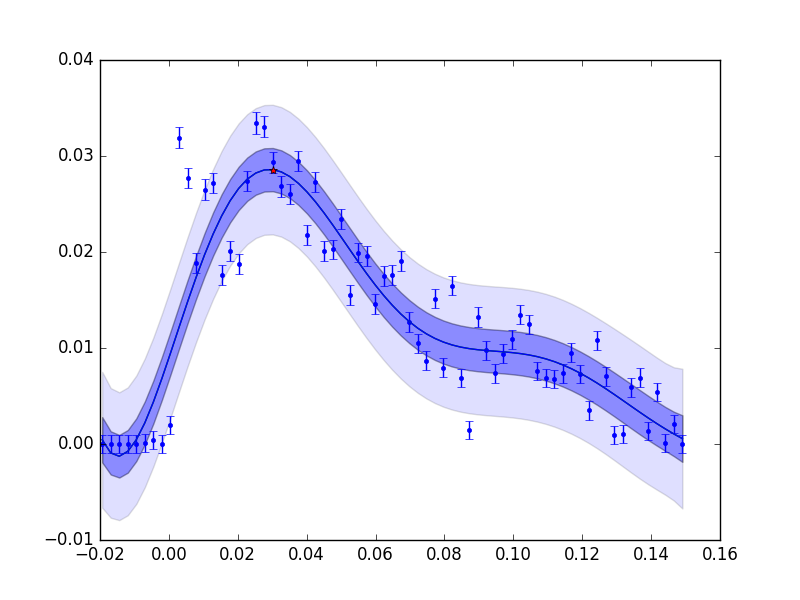
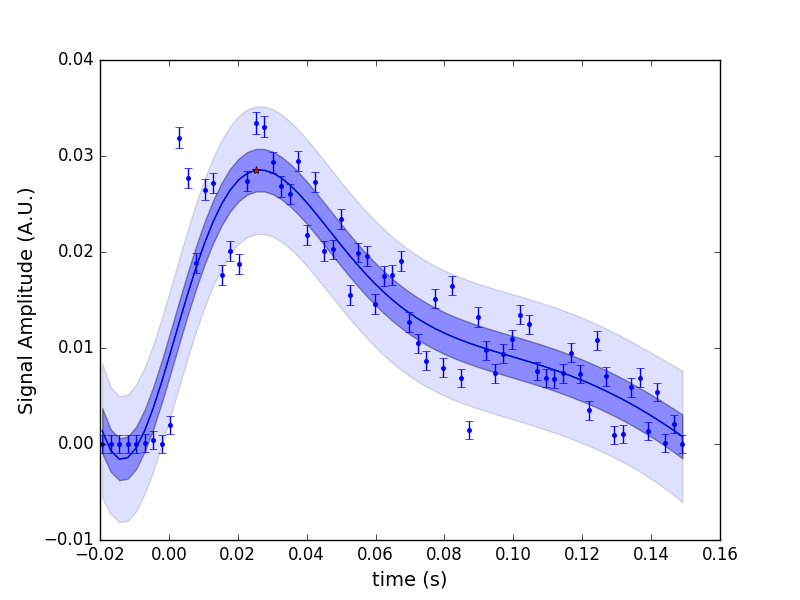
latest update

diff --git a/profile_unc_estimation.py b/profile_unc_estimation.py
@@ -36,7 +36,14 @@ from VUV_gui_classes import VUVData,interp_max
 import cPickle as pkl
 import warnings
 
-def profile_fitting(x, y, err_y=None, optimize=True, method='GPR', kernel='SE', num_dim=1, sigma_max=10.0, l_min = 0.005, debug_plots=False, noiseLevel=2):
+class hyperparams:
+    def __init__(self,**kwargs):
+        for key, value in kwargs.iteritems():
+            setattr(self, key, value)
+            print "Set hparams.%s = %d" %(key, value) 
+
+
+def profile_fitting(x, y, err_y=None, optimize=True, method='GPR', kernel='SE', num_dim=1, debug_plots=True, noiseLevel=2., **kwargs): #sigma_max=10.0, l_min = 0.005, 
     """Interpolate profiles and uncertainties over a dense grid. Also return the maximum 
     value of the smoothed data.
     
@@ -94,35 +101,57 @@ def profile_fitting(x, y, err_y=None, optimize=True, method='GPR', kernel='SE', 
 
         # Define the kernel type amongst the implemented options. 
         if kernel=='SE':
+            assert len(kwargs) == 4
+            hparams = hyperparams(**kwargs); #hparams.set_kwargs(**kwargs)
+            # Defaults:
+            if not hasattr(hparams,'sigma_mean'): hparams.sigma_mean = 2.0
+            if not hasattr(hparams,'l_mean'): hparams.l_mean = 0.005
+            if not hasattr(hparams,'sigma_sd'): hparams.sigma_sd = 10.0
+            if not hasattr(hparams,'l_sd'): hparams.l_sd = 0.1
+
             hprior = (
-            # gptools.UniformJointPrior([(0, sigma_max),]) *
-            gptools.GammaJointPriorAlt([2.0,], [sigma_max,])*
-            gptools.GammaJointPriorAlt([l_min,], [0.1,])
+            gptools.GammaJointPriorAlt([hparams.sigma_mean, hparams.l_mean], [hparams.sigma_sd,hparams.l_sd])
             )
             k = gptools.SquaredExponentialKernel(
                 #= ====== =======================================================================
-                #0 sigmaf Amplitude of the covariance function
+                #0 sigma  Amplitude of the covariance function
                 #1 l1     Small-X saturation value of the length scale.
                 #2 l2     Large-X saturation value of the length scale.
                 #= ====== =======================================================================
                 # param_bounds=[(0, sigma_max), (0, 2.0)],
                 hyperprior=hprior,
-                initial_params=[10000.0, 400000.0],
+                initial_params=[10000.0, 400000.0], # random, doesn't matter because we do random starts anyway
                 fixed_params=[False]*2
             )
             
         elif kernel=='gibbs':
-            # Set this with 
+            if num_dim == 1: assert len(kwargs) == 10
+            hparams = hyperparams(**kwargs); 
+            # Defaults:
+            if not hasattr(hparams,'sigma_min'): hparams.sigma_min = 0.0
+            if not hasattr(hparams,'sigma_max'): hparams.sigma_max = 10.0
+
+            if not hasattr(hparams,'l1_mean'): hparams.l1_mean = 0.3
+            if not hasattr(hparams,'l1_sd'): hparams.l1_sd = 0.3
+
+            if not hasattr(hparams,'l2_mean'): hparams.l2_mean = 0.5
+            if not hasattr(hparams,'l2_sd'): hparams.l2_sd = 0.25
+            
+            if not hasattr(hparams,'lw_mean'): hparams.lw_mean = 0.0
+            if not hasattr(hparams,'lw_sd'): hparams.lw_sd = 0.3
+            
+            if not hasattr(hparams,'x0_mean'): hparams.x0_mean = 0.0
+            if not hasattr(hparams,'x0_sd'): hparams.x0_sd = 0.3
+
             hprior=(
-                # Set a uniform prior for sigmaf
-                gptools.UniformJointPrior([(0,10),])*
-                # Set Gamma distribution('alternative form') for the other 4 priors of the Gibbs 1D Tanh kernel
-                gptools.GammaJointPriorAlt([0.3,0.5,0.0,0.0],[0.3,0.25,0.3,0.3])
+                gptools.UniformJointPrior([(hparams.sigma_min,hparams.sigma_max),])*
+                gptools.GammaJointPriorAlt([hparams.l1_mean,hparams.l2_mean,hparams.lw_mean,hparams.x0_mean],
+                    [hparams.l1_sd,hparams.l2_sd,hparams.lw_sd,hparams.x0_sd])
                 )
 
             k = gptools.GibbsKernel1dTanh(
                 #= ====== =======================================================================
-                #0 sigmaf Amplitude of the covariance function
+                #0 sigma  Amplitude of the covariance function
                 #1 l1     Small-X saturation value of the length scale.
                 #2 l2     Large-X saturation value of the length scale.
                 #3 lw     Length scale of the transition between the two length scales.
@@ -133,6 +162,14 @@ def profile_fitting(x, y, err_y=None, optimize=True, method='GPR', kernel='SE', 
                 hyperprior=hprior,
                 )
         elif kernel=='matern52':
+            if num_dim == 1: assert len(kwargs) == 4
+            hparams = hyperparams(**kwargs); 
+            # Defaults:
+            if not hasattr(hparams,'sigma_mean'): hparams.sigma_mean = 2.0
+            if not hasattr(hparams,'l_mean'): hparams.l_mean = 0.005
+            if not hasattr(hparams,'sigma_sd'): hparams.sigma_sd = 10.0
+            if not hasattr(hparams,'l_sd'): hparams.l_sd = 0.1
+
             hprior=( 
                 gptools.GammaJointPriorAlt([2.0,0.05],[5.0,0.25])
                 ) 
@@ -180,12 +217,13 @@ def profile_fitting(x, y, err_y=None, optimize=True, method='GPR', kernel='SE', 
             if y[i]==0:
                 gp.add_data(x[i], 0, n=0, err_y=0.0)
                 gp.add_data(x[i], 0, n=0, err_y=0.0)
+                gp.add_data(x[i], 0, n=1, err_y=0.0)
         
         with warnings.catch_warnings():
             warnings.filterwarnings("ignore", message="invalid value encountered in subtract")
             if optimize: 
-                gp.optimize_hyperparameters(verbose=True, random_starts=200)
-            else:
+                res_min, ll_trials = gp.optimize_hyperparameters(verbose=True, random_starts=200)
+            else: 
                 print 'Optimization is turned off. Using initial guesses for hyperparameters!'
 
         m_gp, s_gp = gp.predict(grid,noise=True)
@@ -214,9 +252,24 @@ def profile_fitting(x, y, err_y=None, optimize=True, method='GPR', kernel='SE', 
         print 'Fraction of points within 2 sd: {}'.format(frac_within_2sd)
         print 'Fraction of points within 3 sd: {}'.format(frac_within_3sd)
 
+        ###
+        print("Estimating AIC, BIC...")
+        sum2_diff = 0 
+        for i in range(len(y)):
+            # Find value of grid that is the closest to x[i]:
+            gidx = np.argmin(abs(grid - x[i]))
+            sum2_diff = (m_gp[gidx]-y[i])**2
+                
+        chi_squared = float(sum2_diff) / len(y)
+        num_params = len(hparams.__dict__) / 2
+        num_data = len(y)
+
+        AIC = chi_squared + 2.0 * num_params 
+        BIC = chi_squared + num_params * scipy.log(num_data)
+
     elif method == 'spline':
         m_gp = scipy.interpolate.UnivariateSpline(
-            x, y, w=1.0 / err_y, s=2*len(x)
+            x, y, w=1.0 / err_y, s=None #2*len(x)
         )(grid)
         if scipy.isnan(m_gp).any():
             print(x)
@@ -235,7 +288,8 @@ def profile_fitting(x, y, err_y=None, optimize=True, method='GPR', kernel='SE', 
             gptools.univariate_envelope_plot(grid, m_gp, s_gp, ax=a,label='Inferred')
             #a.fill_between(grid, m_gp - s_gp, m_gp + s_gp, color='g', alpha=0.5)
         plt.plot(grid[m_gp.argmax()],m_gp.max(),'r*')
-        #a.axvline(grid[i])
+        plt.xlabel('time (s)', fontsize=14)
+        plt.xlabel('Signal Amplitude (A.U.)', fontsize=14)
 
     if method == 'GPR':
         res.m_gp=m_gp
@@ -243,6 +297,10 @@ def profile_fitting(x, y, err_y=None, optimize=True, method='GPR', kernel='SE', 
         res.frac_within_1sd=frac_within_1sd
         res.frac_within_2sd=frac_within_2sd
         res.frac_within_3sd=frac_within_3sd
+        res.ll = res_min.fun 
+        res.ll_trials = ll_trials
+        res.BIC = BIC
+        res.AIC = AIC
 
         # res = results(m_gp=m_gp, s_gp=s_gp, frac_within_1sd=frac_within_1sd, frac_within_2sd=frac_within_2sd, frac_within_3sd=frac_within_3sd)
         # return (m_gp, s_gp, frac_within_1sd, frac_within_2sd, frac_within_3sd)

diff --git a/xeus_sig_cleanup.py b/xeus_sig_cleanup.py
@@ -1,7 +1,7 @@
 from __future__ import division
 import sys
 sys.path.append('/home/sciortino/ML')
-import profile_unc_estimation
+import profile_unc_estimation as  prof_fit
 import numpy as np
 import collections
 import profiletools
@@ -87,20 +87,28 @@ if report_figs:
     plt.figure()
     plt.errorbar(t_train,y_clean_train,y_unc_train,marker='s',mfc='red',mec='green')
 
-    res = profile_fitting(t_train, y_clean_train, err_y=y_unc_train, s_guess=0.2, s_max=10.0, l_guess=0.05, 
-        fixed_l=False, debug_plots=True, method='spline',kernel='SE',noiseLevel=1)
+    res = prof_fit.profile_fitting(t_train, y_clean_train, err_y=y_unc_train, optimize=True, sigma_max=10.0, 
+        debug_plots=True, method='spline',kernel='SE',noiseLevel=1)
 
-    res = profile_fitting(t_train, y_clean_train, err_y=y_unc_train, s_guess=0.1, s_max=10.0, l_guess=0.05, 
-        fixed_l=False, debug_plots=True, method='GPR',kernel='SE',noiseLevel=2)
-    
+    # SE kernel test:
+    SE_params={'sigma_mean': 2.0, 'l_mean': 0.1, 'sigma_sd': 10.0, 'l_sd':0.1}
+    res = prof_fit.profile_fitting(t_train, y_clean_train, err_y=y_unc_train, method='GPR',kernel='SE',noiseLevel=2, **SE_params)
+    logposterior_SE = 
+
+
     # Try gibbs kernel:
-    res = profile_fitting(t_train, y_clean_train, err_y=y_unc_train, debug_plots=True, method='GPR',kernel='gibbs',noiseLevel=2)
+    gibbs_params={'sigma_min':0.0,'sigma_max':2.0,'l1_mean':0.005,'l2_mean':0.1,'lw_mean':0.01,'x0_mean':0.0,
+                    'l1_sd':0.05,'l2_sd':0.05,'lw_sd':0.02,'x0_sd':0.002}
+    res = prof_fit.profile_fitting(t_train, y_clean_train, err_y=y_unc_train, method='GPR',kernel='gibbs',noiseLevel=2, **gibbs_params)
     
     # Try matern52 kernel:
-    res = profile_fitting(t_train, y_clean_train, err_y=y_unc_train, debug_plots=True, method='GPR',kernel='matern52',noiseLevel=2)
+    matern52_params={'sigma_mean': 2.0, 'l_mean': 0.05, 'sigma_sd': 10.0, 'l_sd':10.0}
+    res = prof_fit.profile_fitting(t_train, y_clean_train, err_y=y_unc_train, method='GPR',kernel='matern52',noiseLevel=2, **matern52_params)
     
     # Try RQ kernel:
-    res = profile_fitting(t_train, y_clean_train, err_y=y_unc_train, debug_plots=True, method='GPR',kernel='RQ',noiseLevel=2)
+    RQ_params={'sigma_mean': 2.0, 'l_mean': 0.005, 'sigma_sd': 10.0, 'l_sd':0.1}
+    res = prof_fit.profile_fitting(t_train, y_clean_train, err_y=y_unc_train, method='GPR',kernel='RQ',noiseLevel=2, **RQ_params)
+
 
 #==================================================================
 #
@@ -115,8 +123,8 @@ nL = np.linspace(1.0, 3.0, 3)
 hyperparams = np.zeros((len(nL),3))
 for j in range(len(nL)):
     noiseLevel = nL[j]
-    res_train = profile_fitting(t_train, y_clean_train, err_y=y_unc_train, optimize=True, s_guess=0.1, s_max=10.0, l_guess=0.05, 
-        fixed_l=False, debug_plots=True, method='GPR',kernel='SE', noiseLevel=noiseLevel)
+    res_train = prof_fit.profile_fitting(t_train, y_clean_train, err_y=y_unc_train, optimize=True, sigma_max=10.0, 
+        method='GPR',kernel='SE', noiseLevel=noiseLevel)
 
     hyperparams[j,:] = res_train.free_params[:]
     sigma_f_opt = res_train.free_params[:][0]
@@ -125,8 +133,8 @@ for j in range(len(nL)):
     noiseLevel_opt = sigma_n_opt / np.mean(y_unc_train)
 
     # Find validation set error
-    res_val = profile_fitting(t_train, y_clean_train, err_y=y_unc_train, optimize=False, s_guess=sigma_f_opt, s_max=10.0, l_guess=l_1_opt, 
-        fixed_l=True, debug_plots=True, method='GPR', kernel='SE', noiseLevel=noiseLevel_opt)
+    res_val = prof_fit.profile_fitting(t_train, y_clean_train, err_y=y_unc_train, optimize=False, sigma_max=10.0, 
+        method='GPR', kernel='SE', noiseLevel=noiseLevel_opt)
 
     frac_within_1sd = res_val.frac_within_1sd
     frac_within_2sd = res_val.frac_within_2sd
